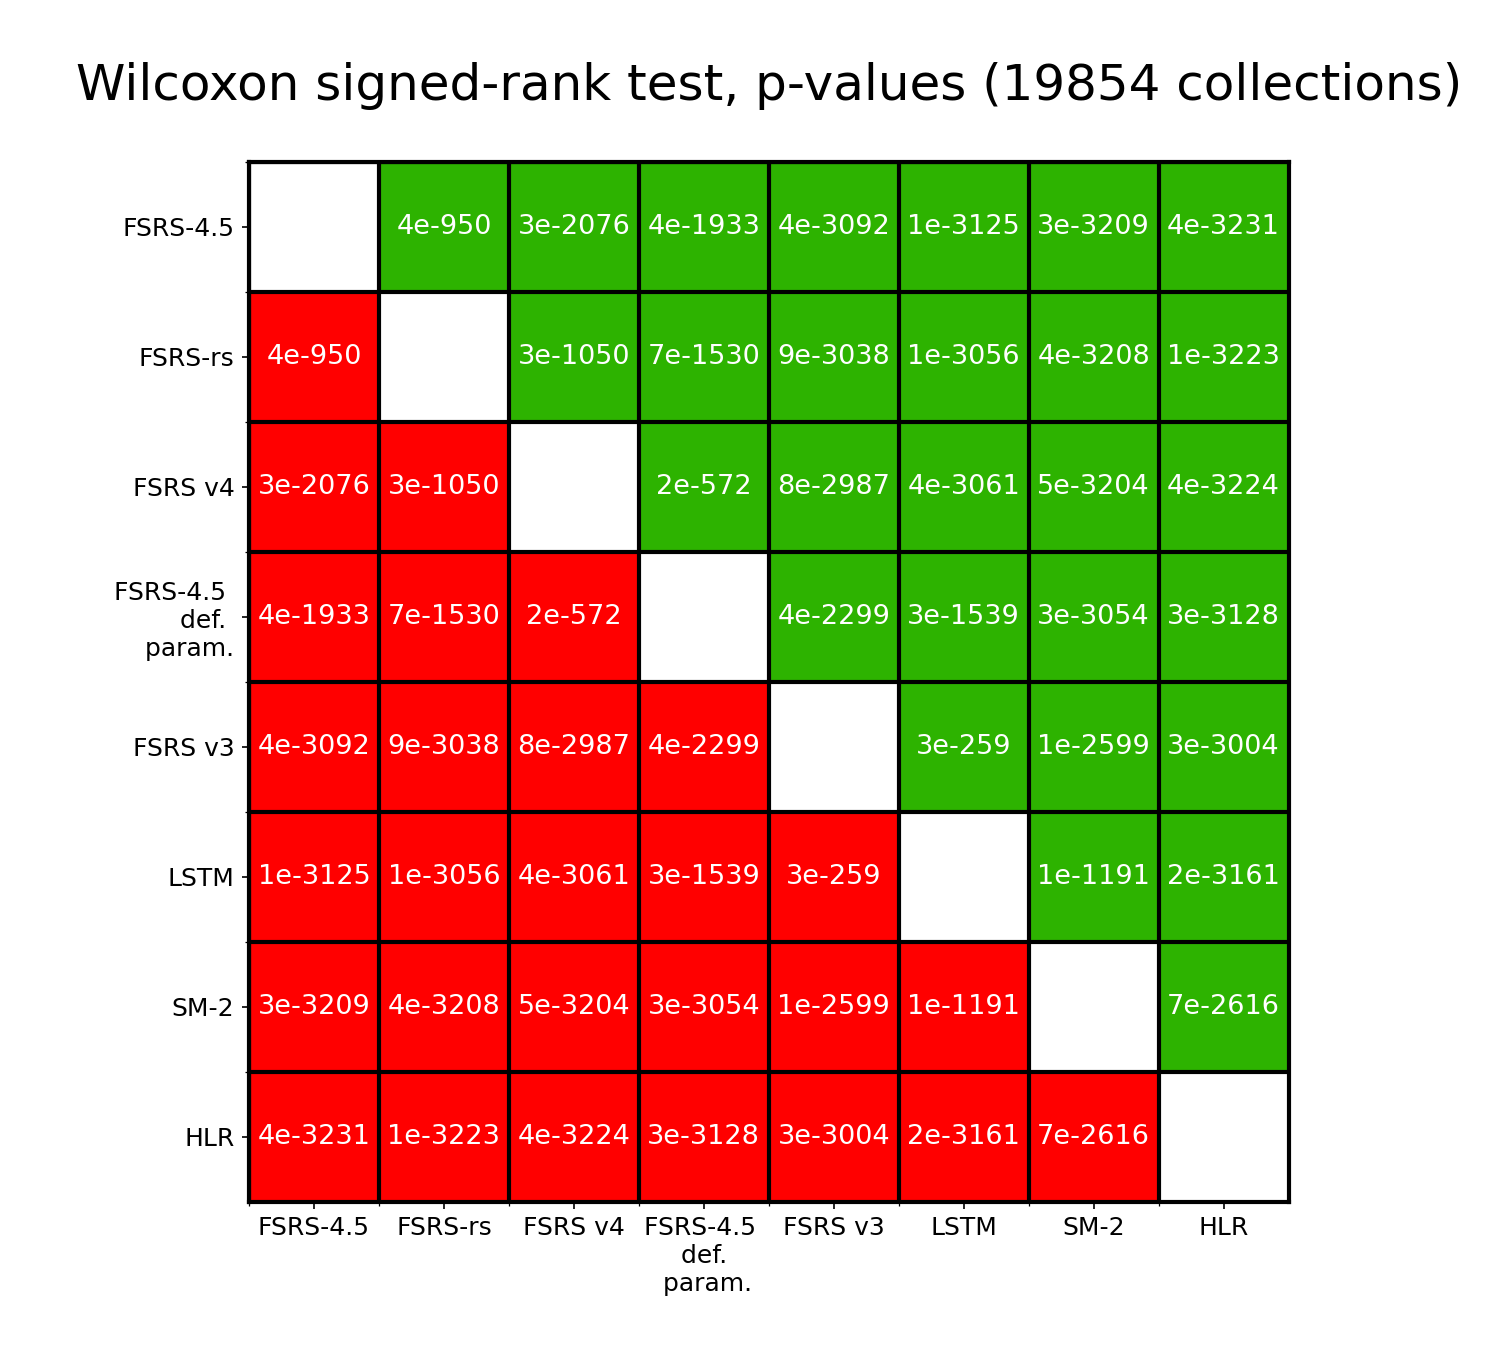
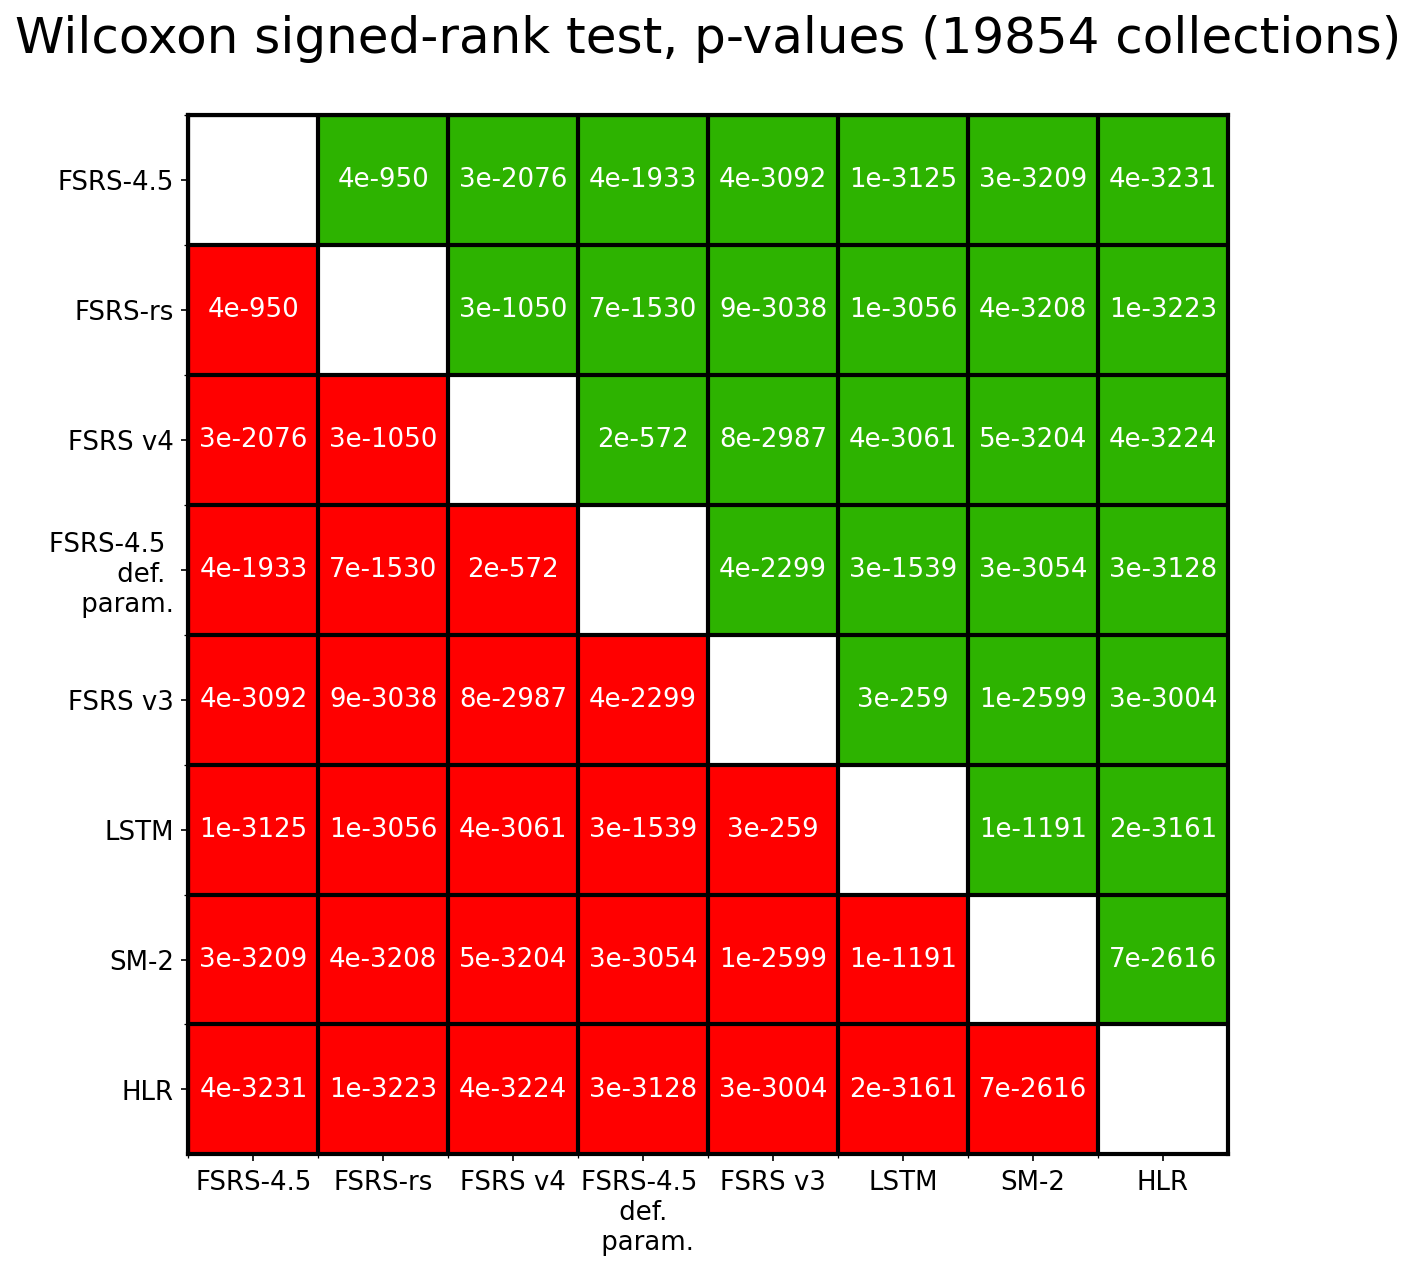
Update the image.md (#38)

Changed region(s): [[0.0, 0.0, 0.9944, 0.9827], [0.0621, 0.215, 0.0932, 0.2457]]

diff --git a/significance_table.py b/significance_table.py
@@ -234,11 +234,11 @@ if __name__ == "__main__":
                     ha="center",
                     va="center",
                     color="white",
-                    fontsize=9.5,
+                    fontsize=12.5,
                 )
 
-    ax.set_xticks(np.arange(n), labels=models2, fontsize=9.5)
-    ax.set_yticks(np.arange(n), labels=models2, fontsize=9.5)
+    ax.set_xticks(np.arange(n), labels=models2, fontsize=12.5)
+    ax.set_yticks(np.arange(n), labels=models2, fontsize=12.5)
     ax.set_xticks(np.arange(n) - 0.5, minor=True)
     ax.set_yticks(np.arange(n) - 0.5, minor=True)
     plt.grid(True, alpha=1, color="black", linewidth=2, which="minor")

diff --git a/README.md b/README.md
@@ -78,7 +78,7 @@ The image below shows the p-values obtained by running the Wilcoxon signed-rank 
 All p-values are extremely small, many orders of magnitude smaller than 0.01. Of course, p-values this low beg the question, "Can we even trust these values?". `scipy.stats.wilcoxon` itself uses an approximation for n>50, and our modified implementation uses an approximation to return the log10(p-value) rather than the p-value itself, to avoid the limitations of floating point numbers. So it's an approximation of an approximation. But more importantly, this test is not weighted, meaning that it doesn't take into account the fact that RMSE (bins) depends on the number of reviews.
 Overall, these p-values can be trusted on a qualitative (but not quantitative) level, in other words, we can be sure that all of our algorithms perform differently and that no two algorithms perform exactly the same.
 
-![Wilcoxon, 19854 collections](https://github.com/Expertium/fsrs-benchmark/assets/83031600/72dbd28a-fea6-4f6b-a80c-124d29e3cf50)
+![Wilcoxon, 19854 collections](./plots/Wilcoxon-19854-collections.png)
 
 ## Median Parameters
 
